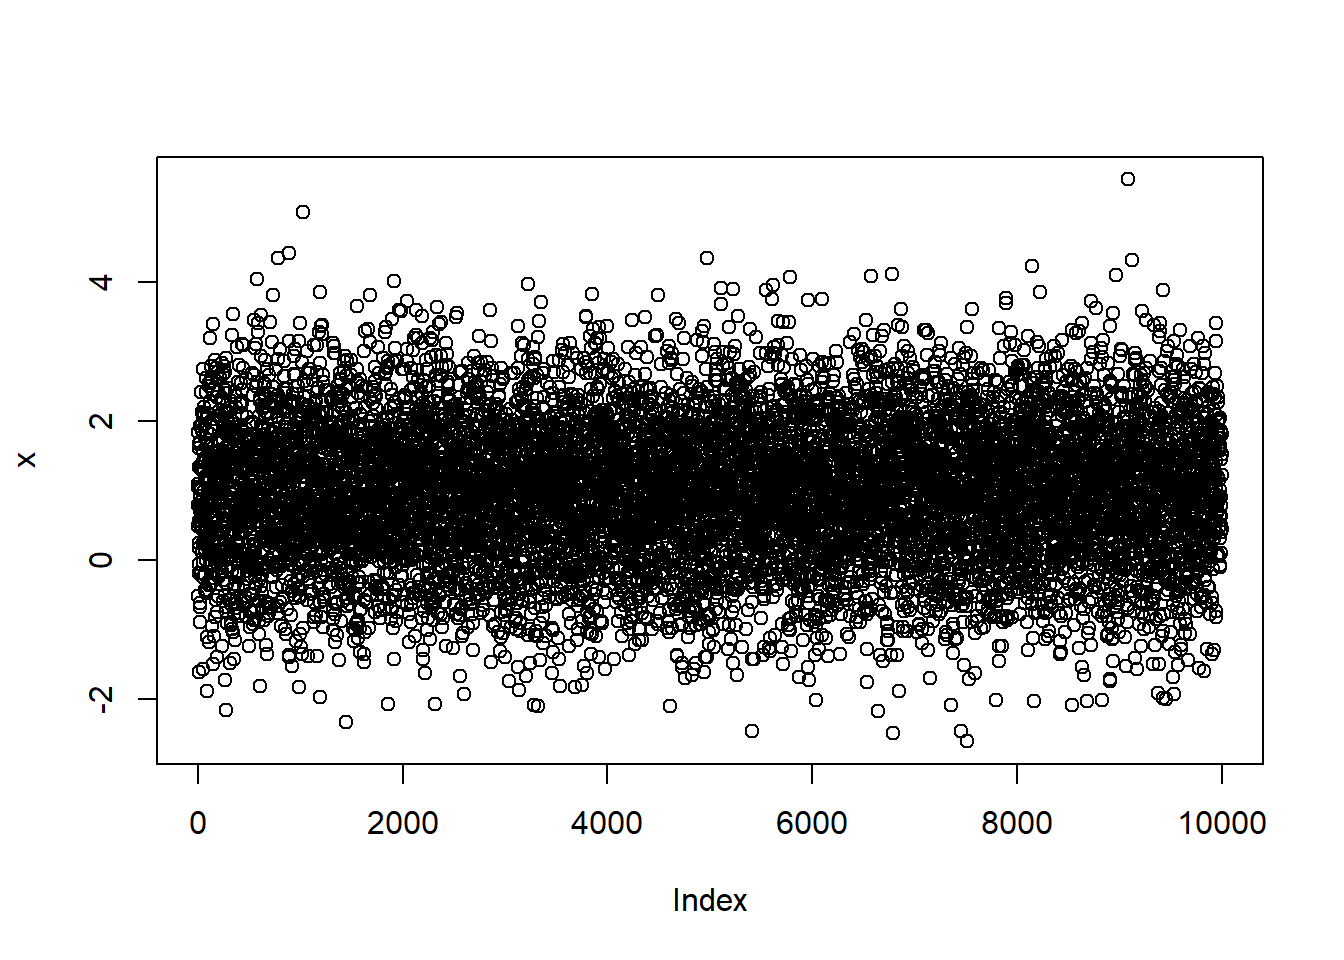
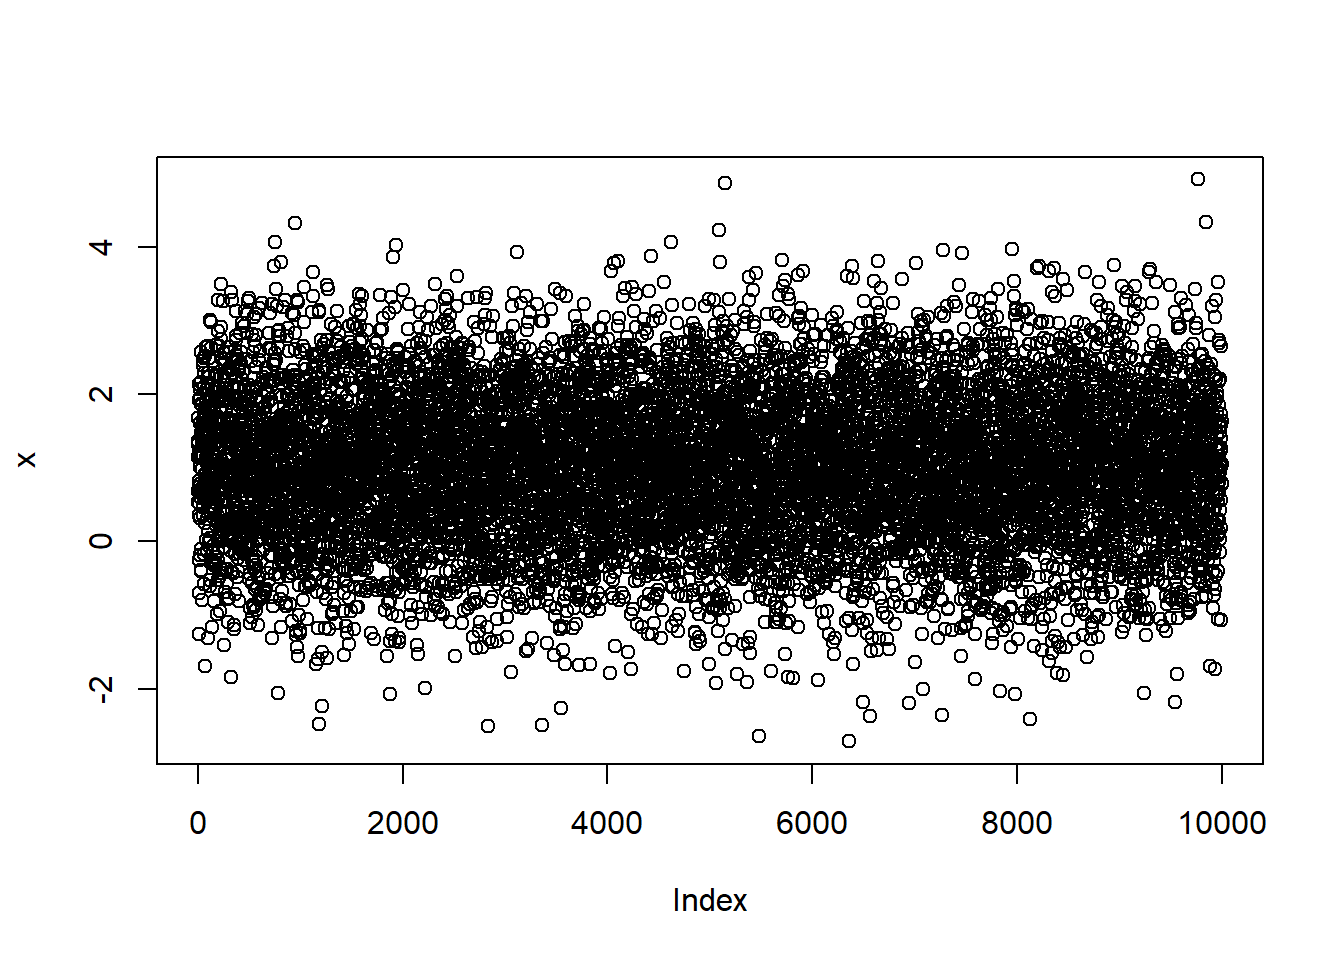
lkn

diff --git a/content/post/2019-05-10-comando-basicos-r.html b/content/post/2019-05-10-comando-basicos-r.html
@@ -1,14 +1,3 @@
----
-title: Introdução ao R e comandos básicos
-author: Lucas Jordão
-date: '2019-05-10'
-slug: comando-basicos-r
-categories: []
-tags: []
-image:
-  caption: ''
-  focal_point: ''
----
 
 <div id="TOC">
 <ul>
@@ -244,7 +233,7 @@ Auckland, ajudaram Ross Ihaka a desenvolver a versão para Macintosh.</p>
 ## cite it when using it for data analysis. See also
 ## &#39;citation(&quot;pkgname&quot;)&#39; for citing R packages.</code></pre>
 <pre class="r"><code>Sys.time()                  # obtém data e hora exata do sistema</code></pre>
-<pre><code>## [1] &quot;2019-05-17 16:23:12 -03&quot;</code></pre>
+<pre><code>## [1] &quot;2019-05-17 16:32:02 -03&quot;</code></pre>
 </div>
 <div id="operadores-simples-e-funcoes-matematicas" class="section level2">
 <h2>Operadores simples e funções matemáticas</h2>
@@ -590,7 +579,7 @@ x &lt;- 1
 if(x == 1) {
   Sys.time()
 }</code></pre>
-<pre><code>## [1] &quot;2019-05-17 16:23:14 -03&quot;</code></pre>
+<pre><code>## [1] &quot;2019-05-17 16:32:04 -03&quot;</code></pre>
 <pre class="r"><code>if(x &lt; 0) {
   sinal &lt;- &quot;negativo&quot;
 } else if(x == 0) {
@@ -619,49 +608,49 @@ soma</code></pre>
 <div id="gerando-numeros-aleatorios-e-amostragem" class="section level1">
 <h1>Gerando números aleatórios e amostragem</h1>
 <pre class="r"><code>runif(100)        # Gera números aleatórios entre 0 e 1 com distribuição uniforme</code></pre>
-<pre><code>##   [1] 0.380159972 0.008144815 0.826359316 0.252482190 0.242798038
-##   [6] 0.599306384 0.859970210 0.608637021 0.549633340 0.511538112
-##  [11] 0.070042087 0.198189188 0.939824822 0.018246729 0.818420984
-##  [16] 0.850928386 0.204768555 0.386438079 0.954494301 0.837362188
-##  [21] 0.526034028 0.143274501 0.366559359 0.628886678 0.493618645
-##  [26] 0.344478903 0.357817980 0.954113079 0.038916058 0.925634216
-##  [31] 0.386215680 0.200201179 0.005457346 0.305604047 0.013168055
-##  [36] 0.895566613 0.923159824 0.743458924 0.204974501 0.877650356
-##  [41] 0.054556933 0.917147969 0.914056673 0.054209556 0.221690868
-##  [46] 0.485184442 0.024935975 0.183485241 0.664616308 0.057988720
-##  [51] 0.678841031 0.073741148 0.323335629 0.746366810 0.993741873
-##  [56] 0.195617948 0.701779569 0.078328726 0.190473793 0.894745937
-##  [61] 0.057552758 0.202256888 0.242547827 0.583462646 0.195175838
-##  [66] 0.747935218 0.018766249 0.888254641 0.726225158 0.227174839
-##  [71] 0.073752280 0.946976416 0.774606971 0.239557767 0.198719758
-##  [76] 0.471707219 0.783970853 0.105780459 0.872269384 0.006999826
-##  [81] 0.008012678 0.585437207 0.267910077 0.358065707 0.342845290
-##  [86] 0.918576967 0.809818366 0.752602457 0.148230497 0.692345007
-##  [91] 0.460663268 0.998179409 0.105469447 0.267848036 0.420383856
-##  [96] 0.489581682 0.839730311 0.234716922 0.855598010 0.855840177</code></pre>
+<pre><code>##   [1] 0.8932908806 0.9052530876 0.0375170675 0.8363593188 0.9818556053
+##   [6] 0.5985628816 0.1832871111 0.0862778947 0.5869609928 0.5558793326
+##  [11] 0.3346325369 0.4321933810 0.7734679095 0.1053415425 0.4086078443
+##  [16] 0.2631350514 0.5740928114 0.6427381292 0.3307638748 0.2250750754
+##  [21] 0.6270888881 0.1664315069 0.2552341102 0.4642965586 0.1675002889
+##  [26] 0.5213162308 0.4383155489 0.6170912916 0.8471803053 0.6208662335
+##  [31] 0.6149731637 0.0715394584 0.1175430897 0.8199234400 0.0880242938
+##  [36] 0.1762251777 0.5818129042 0.8727365788 0.6582955141 0.0008735114
+##  [41] 0.9055950148 0.1672657602 0.5912904539 0.0586730945 0.4546864268
+##  [46] 0.3359193725 0.2158082493 0.4329064067 0.9404405167 0.2053839539
+##  [51] 0.0527357038 0.7558007415 0.4111597771 0.0322948669 0.9981951811
+##  [56] 0.3804028945 0.0537331149 0.3325275399 0.5040218735 0.4564822186
+##  [61] 0.4444043452 0.3340313309 0.8891872431 0.2461581628 0.9449045740
+##  [66] 0.2906381013 0.0027269966 0.5031142330 0.4821719420 0.4676044879
+##  [71] 0.2599698955 0.6562862566 0.7438409170 0.0395970542 0.3556587372
+##  [76] 0.4947614870 0.8913939118 0.4487673608 0.7012687621 0.7236171460
+##  [81] 0.3315804193 0.6279504721 0.5506878141 0.0012705913 0.4114258767
+##  [86] 0.4114451248 0.2152473647 0.9929303979 0.7949649417 0.5329308982
+##  [91] 0.5276396631 0.3495982997 0.3161793619 0.7113691031 0.1351793741
+##  [96] 0.2815254962 0.7900981228 0.8929140077 0.2226931110 0.5926758458</code></pre>
 <pre class="r"><code>rnorm(100)        # Gera números aleatórios com distribuição normal</code></pre>
-<pre><code>##   [1] -1.959129371  0.697190652  0.780811961  0.388536469 -1.041098595
-##   [6] -1.654234651  1.183065737  0.988499470  1.486683213  0.510909174
-##  [11] -0.667770785  0.338257282  0.197640801 -0.969146225 -1.097144248
-##  [16]  0.047256687 -1.513796540 -0.916937754 -0.396269901 -0.005731493
-##  [21]  0.574099518  0.298727290 -1.211306567  1.154200171 -0.305441463
-##  [26]  1.006166217  1.078316174 -1.062351012 -0.695949011  0.055476719
-##  [31]  1.206893596 -1.378617061  0.415064373  1.670194920 -0.263733132
-##  [36] -1.299842910  1.685625066  0.370980159  0.871282776 -0.400770088
-##  [41]  0.410651338 -0.116137469 -0.923006264  0.372561737  0.177775624
-##  [46] -0.128870414  0.151024852  1.470864942 -1.150747360 -1.067699805
-##  [51]  0.154259489 -0.158256464 -1.101343364  1.069710409  0.965296662
-##  [56] -0.143662091 -0.195185725  1.140428916 -1.253301397  0.167521473
-##  [61] -0.104907474 -0.649475654  1.369022837  0.461458508 -0.570874450
-##  [66] -0.325370143 -1.220845829 -0.885564008 -0.580418700  0.649079994
-##  [71] -1.947390042  0.660082125 -0.790425713  0.948764101  1.398693293
-##  [76] -0.771090839 -0.275330817  1.406950784 -0.672625874 -0.251602648
-##  [81] -1.068363051 -1.654325376 -0.003068898  0.240883088 -1.447569094
-##  [86]  1.249487745 -1.616803496 -0.020512829 -0.283301065 -0.969378449
-##  [91]  1.128893283  0.474221623  1.425135836 -0.397022057  2.006699583
-##  [96]  1.069612045 -1.027807767  0.471426989 -1.737696668 -0.182596103</code></pre>
+<pre><code>##   [1]  0.90728195  0.09391982  0.20287365 -0.08446100 -0.33782499
+##   [6] -0.74903152 -2.12626922  1.19022870  0.29113317  0.97139130
+##  [11]  0.16181664 -0.54764249 -0.15931030 -1.29452055 -1.96577425
+##  [16] -2.14552400 -0.27720023 -0.87716207 -0.64944944 -1.44156189
+##  [21]  0.12612833 -1.11333892 -0.70339035  0.32116248 -0.76402048
+##  [26]  1.63386835 -0.63130957  0.87241975 -0.41035001 -1.23902217
+##  [31]  0.17666826  0.03074024 -0.10783682 -1.60118882 -1.81613460
+##  [36]  1.57573881 -0.40262652 -0.02486720  1.06247116  1.03667257
+##  [41] -0.12248629  0.59401017 -0.24459604 -1.00852573 -0.77947562
+##  [46] -1.15294557 -0.56759830 -0.96080924  0.30401995 -0.12557669
+##  [51]  3.06182130 -0.21480664 -0.96333143  1.14493593  0.68238642
+##  [56] -1.93393759 -0.19841200  0.03477439  1.63571947 -1.25223824
+##  [61] -0.84154656 -0.48915258  0.92074060 -0.14779623 -0.60988973
+##  [66]  0.91161912  1.96875931  0.40665842 -0.23643155  0.32195225
+##  [71] -0.38148774  0.27117994 -0.55700616  0.03908744 -1.31235511
+##  [76] -0.78572796  0.03510731  0.09695076  1.52131016  0.71196688
+##  [81]  0.14268622  0.13133287  1.53556099 -1.03181025 -0.16333423
+##  [86]  0.58027904  0.67654784 -0.03409683  0.26022676  0.43686282
+##  [91] -1.71413010 -0.34577804 -1.22373228  0.45421912 -1.77679057
+##  [96]  0.01380826 -1.61945502 -0.57548399  1.51791253  1.07363927</code></pre>
 <pre class="r"><code>sample(1:100, 4)  # Amostragem</code></pre>
-<pre><code>## [1] 20 40 22 66</code></pre>
+<pre><code>## [1] 48 30 50 44</code></pre>
 <div id="graficos-de-analise-descritiva" class="section level2">
 <h2>Gráficos de Análise Descritiva</h2>
 <div id="histograma" class="section level3">
